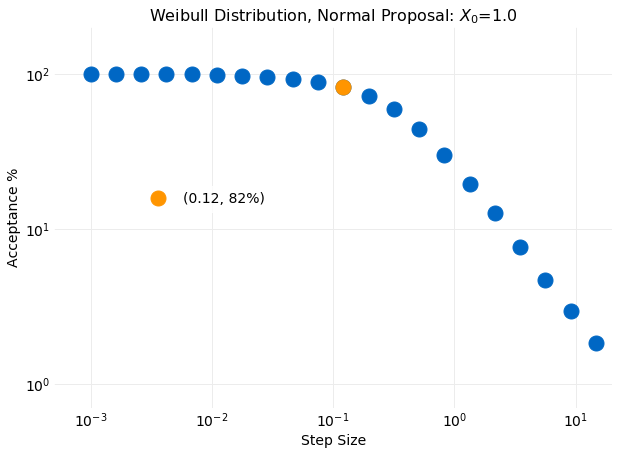
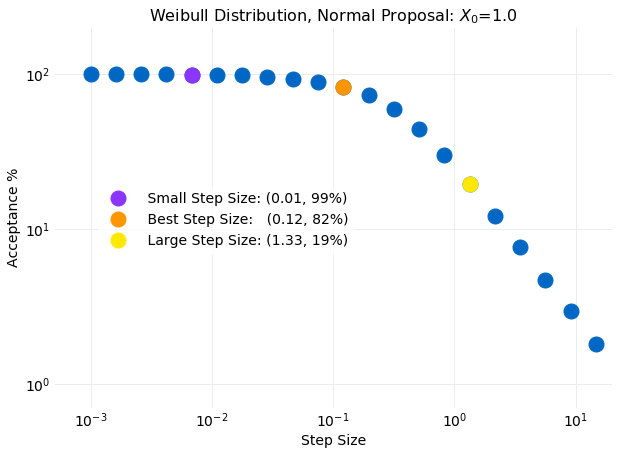
started burn in section MHS

diff --git a/_site/2018/09/06/metropolis_hastings_sampling.html b/_site/2018/09/06/metropolis_hastings_sampling.html
@@ -14,11 +14,11 @@
 <link rel="canonical" href="http://localhost:4000/2018/09/06/metropolis_hastings_sampling.html" />
 <meta property="og:url" content="http://localhost:4000/2018/09/06/metropolis_hastings_sampling.html" />
 <meta property="og:site_name" content="gly.fish" />
-<meta property="og:image" content="http://localhost:4000/assets/posts/metropolis_hastings_sampling/norma_proposal_acceptance.png" />
+<meta property="og:image" content="http://localhost:4000/assets/posts/metropolis_hastings_sampling/normal_proposal_acceptance.png" />
 <meta property="og:type" content="article" />
-<meta property="article:published_time" content="2018-09-06T08:36:59-07:00" />
+<meta property="article:published_time" content="2018-09-06T12:50:16-07:00" />
 <script type="application/ld+json">
-{"description":"Metropolis Hastings Sampling is a method for obtaining samples for known target probability distribution using samples from some other proposal distribution. It is similar to Rejection Sampling in providing a criteria for acceptance of a proposal sample as a target sample but instead of discarding the samples that do not meet the acceptance criteria the sample from the previous time step is replicated. Another difference is that Metropolis Hastings samples are modeled as a Markov Chain where the target distribution is the Markov Chain Equilibrium Distribution. As a consequence the previous sample is used as part of the acceptance criteria when generating the next sample. It will be seen this has the advantage of permitting dynamical adjustment of some proposal distribution parameters as each sample is generated, which in effect eliminates parameters as model inputs. This is is an improvement over Rejection Sampling, where it was previously shown that slight variations in proposal distribution parameters can significantly impact performance. A downside of the Markov Chain representation is that autocorrelation can develop in the samples which is not the case in Rejection Sampling.","author":{"@type":"Person","name":"Troy Stribling"},"@type":"BlogPosting","url":"http://localhost:4000/2018/09/06/metropolis_hastings_sampling.html","image":"http://localhost:4000/assets/posts/metropolis_hastings_sampling/norma_proposal_acceptance.png","headline":"Metropolis Hastings Sampling","dateModified":"2018-09-06T08:36:59-07:00","datePublished":"2018-09-06T08:36:59-07:00","mainEntityOfPage":{"@type":"WebPage","@id":"http://localhost:4000/2018/09/06/metropolis_hastings_sampling.html"},"@context":"http://schema.org"}</script>
+{"description":"Metropolis Hastings Sampling is a method for obtaining samples for known target probability distribution using samples from some other proposal distribution. It is similar to Rejection Sampling in providing a criteria for acceptance of a proposal sample as a target sample but instead of discarding the samples that do not meet the acceptance criteria the sample from the previous time step is replicated. Another difference is that Metropolis Hastings samples are modeled as a Markov Chain where the target distribution is the Markov Chain Equilibrium Distribution. As a consequence the previous sample is used as part of the acceptance criteria when generating the next sample. It will be seen this has the advantage of permitting dynamical adjustment of some proposal distribution parameters as each sample is generated, which in effect eliminates parameters as model inputs. This is is an improvement over Rejection Sampling, where it was previously shown that slight variations in proposal distribution parameters can significantly impact performance. A downside of the Markov Chain representation is that autocorrelation can develop in the samples which is not the case in Rejection Sampling.","author":{"@type":"Person","name":"Troy Stribling"},"@type":"BlogPosting","url":"http://localhost:4000/2018/09/06/metropolis_hastings_sampling.html","image":"http://localhost:4000/assets/posts/metropolis_hastings_sampling/normal_proposal_acceptance.png","headline":"Metropolis Hastings Sampling","dateModified":"2018-09-06T12:50:16-07:00","datePublished":"2018-09-06T12:50:16-07:00","mainEntityOfPage":{"@type":"WebPage","@id":"http://localhost:4000/2018/09/06/metropolis_hastings_sampling.html"},"@context":"http://schema.org"}</script>
 <!-- End Jekyll SEO tag -->
 <link rel="stylesheet" href="/assets/main.css">
   <link rel="apple-touch-icon" sizes="180x180" href="/assets/favicon/apple-touch-icon.png">
@@ -134,7 +134,7 @@
   <header class="post-header">
     <h1 class="post-title p-name" itemprop="name headline">Metropolis Hastings Sampling</h1>
     <p class="post-meta">
-      <time class="dt-published" datetime="2018-09-06T08:36:59-07:00" itemprop="datePublished">Sep 6, 2018
+      <time class="dt-published" datetime="2018-09-06T12:50:16-07:00" itemprop="datePublished">Sep 6, 2018
       </time>• <span itemprop="author" itemscope itemtype="http://schema.org/Person">
             <span class="p-author h-card" itemprop="name">Troy Stribling</span>
           </span></p>
@@ -729,9 +729,10 @@ for the decay of time series autocorrelation.</p>
 
 <p>The plot below shows the percentage of proposal samples accepted as a function of <code class="highlighter-rouge">stepsize</code> for
 simulations with <code class="highlighter-rouge">stepsize</code> ranging from <span class="katex"><span class="katex-mathml"><math><semantics><mrow><mn>1</mn><msup><mn>0</mn><mrow><mo>−</mo><mn>3</mn></mrow></msup></mrow><annotation encoding="application/x-tex">10^{-3}</annotation></semantics></math></span><span class="katex-html" aria-hidden="true"><span class="strut" style="height:0.8141079999999999em;"></span><span class="strut bottom" style="height:0.8141079999999999em;vertical-align:0em;"></span><span class="base"><span class="mord mathrm">1</span><span class="mord"><span class="mord mathrm">0</span><span class="msupsub"><span class="vlist-t"><span class="vlist-r"><span class="vlist" style="height:0.8141079999999999em;"><span style="top:-3.063em;margin-right:0.05em;"><span class="pstrut" style="height:2.7em;"></span><span class="sizing reset-size6 size3 mtight"><span class="mord mtight"><span class="mord mtight">−</span><span class="mord mathrm mtight">3</span></span></span></span></span></span></span></span></span></span></span></span> to <span class="katex"><span class="katex-mathml"><math><semantics><mrow><mn>1</mn><msup><mn>0</mn><mn>1</mn></msup></mrow><annotation encoding="application/x-tex">10^{1}</annotation></semantics></math></span><span class="katex-html" aria-hidden="true"><span class="strut" style="height:0.8141079999999999em;"></span><span class="strut bottom" style="height:0.8141079999999999em;vertical-align:0em;"></span><span class="base"><span class="mord mathrm">1</span><span class="mord"><span class="mord mathrm">0</span><span class="msupsub"><span class="vlist-t"><span class="vlist-r"><span class="vlist" style="height:0.8141079999999999em;"><span style="top:-3.063em;margin-right:0.05em;"><span class="pstrut" style="height:2.7em;"></span><span class="sizing reset-size6 size3 mtight"><span class="mord mtight"><span class="mord mathrm mtight">1</span></span></span></span></span></span></span></span></span></span></span></span>.
-The simulation believed to be the best performing accepted <span class="katex"><span class="katex-mathml"><math><semantics><mrow><mn>8</mn><mn>2</mn><mi mathvariant="normal">%</mi></mrow><annotation encoding="application/x-tex">82\%</annotation></semantics></math></span><span class="katex-html" aria-hidden="true"><span class="strut" style="height:0.75em;"></span><span class="strut bottom" style="height:0.80556em;vertical-align:-0.05556em;"></span><span class="base"><span class="mord mathrm">8</span><span class="mord mathrm">2</span><span class="mord mathrm">%</span></span></span></span> of the proposed
-samples and had a stepsize of <span class="katex"><span class="katex-mathml"><math><semantics><mrow><mn>0</mn><mi mathvariant="normal">.</mi><mn>1</mn><mn>2</mn></mrow><annotation encoding="application/x-tex">0.12</annotation></semantics></math></span><span class="katex-html" aria-hidden="true"><span class="strut" style="height:0.64444em;"></span><span class="strut bottom" style="height:0.64444em;vertical-align:0em;"></span><span class="base"><span class="mord mathrm">0</span><span class="mord mathrm">.</span><span class="mord mathrm">1</span><span class="mord mathrm">2</span></span></span></span>. This simulation is indicated by the orange point
-in the plot. For all simulations discussed in this section <code class="highlighter-rouge">x0=1.0</code>.</p>
+For all simulations <code class="highlighter-rouge">x0=1.0</code>. The simulation believed to be the best performing accepted <span class="katex"><span class="katex-mathml"><math><semantics><mrow><mn>8</mn><mn>2</mn><mi mathvariant="normal">%</mi></mrow><annotation encoding="application/x-tex">82\%</annotation></semantics></math></span><span class="katex-html" aria-hidden="true"><span class="strut" style="height:0.75em;"></span><span class="strut bottom" style="height:0.80556em;vertical-align:-0.05556em;"></span><span class="base"><span class="mord mathrm">8</span><span class="mord mathrm">2</span><span class="mord mathrm">%</span></span></span></span>
+of the proposed samples and had a stepsize of <span class="katex"><span class="katex-mathml"><math><semantics><mrow><mn>0</mn><mi mathvariant="normal">.</mi><mn>1</mn><mn>2</mn></mrow><annotation encoding="application/x-tex">0.12</annotation></semantics></math></span><span class="katex-html" aria-hidden="true"><span class="strut" style="height:0.64444em;"></span><span class="strut bottom" style="height:0.64444em;vertical-align:0em;"></span><span class="base"><span class="mord mathrm">0</span><span class="mord mathrm">.</span><span class="mord mathrm">1</span><span class="mord mathrm">2</span></span></span></span>. The two other simulations discussed
+in this section as representative of small and large values of <code class="highlighter-rouge">stepsize</code> had acceptance
+percentage of <span class="katex"><span class="katex-mathml"><math><semantics><mrow><mn>9</mn><mn>9</mn><mi mathvariant="normal">%</mi></mrow><annotation encoding="application/x-tex">99\%</annotation></semantics></math></span><span class="katex-html" aria-hidden="true"><span class="strut" style="height:0.75em;"></span><span class="strut bottom" style="height:0.80556em;vertical-align:-0.05556em;"></span><span class="base"><span class="mord mathrm">9</span><span class="mord mathrm">9</span><span class="mord mathrm">%</span></span></span></span> and <span class="katex"><span class="katex-mathml"><math><semantics><mrow><mn>1</mn><mn>9</mn><mi mathvariant="normal">%</mi></mrow><annotation encoding="application/x-tex">19\%</annotation></semantics></math></span><span class="katex-html" aria-hidden="true"><span class="strut" style="height:0.75em;"></span><span class="strut bottom" style="height:0.80556em;vertical-align:-0.05556em;"></span><span class="base"><span class="mord mathrm">1</span><span class="mord mathrm">9</span><span class="mord mathrm">%</span></span></span></span> for <code class="highlighter-rouge">stepsize</code> values of</p>
 
 <p><img class="post-image" src="/assets/posts/metropolis_hastings_sampling/normal_proposal_acceptance.png" /></p>
 
@@ -848,7 +849,11 @@ some knowledge of the target mean is available it should be used to minimize thi
 The time required to reach the equilibrium is referred to as <em>burn in</em>. Typically the
 burn in period of the simulation is considered and artifact and discarded with the aim of
 improving the final result. The expectation then is that the simulation is generating <em>natural</em>
-fluctuations about equilibrium. For the target</p>
+fluctuations about equilibrium. For the target <span class="katex"><span class="katex-mathml"><math><semantics><mrow><mtext>Weibull</mtext></mrow><annotation encoding="application/x-tex">\textbf{Weibull}</annotation></semantics></math></span><span class="katex-html" aria-hidden="true"><span class="strut" style="height:0.69444em;"></span><span class="strut bottom" style="height:0.69444em;vertical-align:0em;"></span><span class="base"><span class="mord text"><span class="mord mathbf">Weibull</span></span></span></span></span>
+distribution the mean value computed from equation <span class="katex"><span class="katex-mathml"><math><semantics><mrow><mo>(</mo><mn>1</mn><mn>3</mn><mo>)</mo></mrow><annotation encoding="application/x-tex">(13)</annotation></semantics></math></span><span class="katex-html" aria-hidden="true"><span class="strut" style="height:0.75em;"></span><span class="strut bottom" style="height:1em;vertical-align:-0.25em;"></span><span class="base"><span class="mopen">(</span><span class="mord mathrm">1</span><span class="mord mathrm">3</span><span class="mclose">)</span></span></span></span> using
+<span class="katex"><span class="katex-mathml"><math><semantics><mrow><mi>λ</mi><mo>=</mo><mn>1</mn></mrow><annotation encoding="application/x-tex">\lambda = 1</annotation></semantics></math></span><span class="katex-html" aria-hidden="true"><span class="strut" style="height:0.69444em;"></span><span class="strut bottom" style="height:0.69444em;vertical-align:0em;"></span><span class="base"><span class="mord mathit">λ</span><span class="mrel">=</span><span class="mord mathrm">1</span></span></span></span> and <span class="katex"><span class="katex-mathml"><math><semantics><mrow><mi>k</mi><mo>=</mo><mn>5</mn></mrow><annotation encoding="application/x-tex">k=5</annotation></semantics></math></span><span class="katex-html" aria-hidden="true"><span class="strut" style="height:0.69444em;"></span><span class="strut bottom" style="height:0.69444em;vertical-align:0em;"></span><span class="base"><span class="mord mathit" style="margin-right:0.03148em;">k</span><span class="mrel">=</span><span class="mord mathrm">5</span></span></span></span> is <span class="katex"><span class="katex-mathml"><math><semantics><mrow><mn>0</mn><mi mathvariant="normal">.</mi><mn>9</mn><mn>2</mn></mrow><annotation encoding="application/x-tex">0.92</annotation></semantics></math></span><span class="katex-html" aria-hidden="true"><span class="strut" style="height:0.64444em;"></span><span class="strut bottom" style="height:0.64444em;vertical-align:0em;"></span><span class="base"><span class="mord mathrm">0</span><span class="mord mathrm">.</span><span class="mord mathrm">9</span><span class="mord mathrm">2</span></span></span></span>.
+The following two plots compare cumulative calculations of the first and second moments performed with samples
+from simulations with the target distribution values.</p>
 
 <p><img class="post-image" src="/assets/posts/metropolis_hastings_sampling/normal_proposal_burnin-mean-convergence.png" /></p>
 

diff --git a/_site/index.html b/_site/index.html
@@ -132,11 +132,11 @@
         Metropolis Hastings Sampling
       </h1>
       <p class="post-meta">
-        <time class="dt-published" datetime="" itemprop="datePublished">Sep 5, 2018
+        <time class="dt-published" datetime="" itemprop="datePublished">Sep 6, 2018
         </time>• <span itemprop="author" itemscope itemtype="http://schema.org/Person">
               <span class="p-author h-card" itemprop="name">Troy Stribling</span>
             </span></p>
-      <img class="post-image" src="/assets/posts/metropolis_hastings_sampling/norma_proposal_acceptance.png"><p><a href="https://en.wikipedia.org/wiki/Metropolis–Hastings_algorithm">Metropolis Hastings Sampling</a> is a method for obtaining samples for known target
+      <img class="post-image" src="/assets/posts/metropolis_hastings_sampling/normal_proposal_acceptance.png"><p><a href="https://en.wikipedia.org/wiki/Metropolis–Hastings_algorithm">Metropolis Hastings Sampling</a> is a method for obtaining samples for known target
 probability distribution using samples from some other proposal distribution. It is similar to
 <a href="/2018/07/29/rejection_sampling.html">Rejection Sampling</a> in providing a
 criteria for acceptance of a proposal sample as a target sample but instead of discarding the
@@ -152,7 +152,7 @@ slight variations in proposal distribution parameters can significantly impact p
 A downside of the Markov Chain representation is that
 <a href="/2018/08/25/discrete_cross_correlation_theorem.html">autocorrelation</a> can develop in the samples
 which is not the case in Rejection Sampl...
-      <a href="/2018/09/05/metropolis_hastings_sampling.html">read more</a>
+      <a href="/2018/09/06/metropolis_hastings_sampling.html">read more</a>
     </li>
     <li><h1 class="post-title p-name" >
         Discrete Cross Correlation Theorem

diff --git a/_site/archive/index.html b/_site/archive/index.html
@@ -125,9 +125,9 @@
       <div class="wrapper">
         <div class="home">
 <h2 class="archive-list-heading">Posts</h2>
-    <ul class="archive-list"><li><span class="post-meta">Sep 5, 2018</span>
+    <ul class="archive-list"><li><span class="post-meta">Sep 6, 2018</span>
         <h3>
-          <a class="post-link" href="/2018/09/05/metropolis_hastings_sampling.html">
+          <a class="post-link" href="/2018/09/06/metropolis_hastings_sampling.html">
             Metropolis Hastings Sampling
           </a>
         </h3></li><li><span class="post-meta">Aug 25, 2018</span>

diff --git a/_drafts/metropolis_hastings_sampling.md b/_drafts/metropolis_hastings_sampling.md
@@ -1,7 +1,7 @@
 ---
 title: Metropolis Hastings Sampling
 key: 20180721
-image: /assets/posts/metropolis_hastings_sampling/norma_proposal_acceptance.png
+image: /assets/posts/metropolis_hastings_sampling/normal_proposal_acceptance.png
 author: Troy Stribling
 permlink: /metropolis_hastings_sampling.html
 comments: false
@@ -568,9 +568,11 @@ for the decay of time series autocorrelation.
 
 The plot below shows the percentage of proposal samples accepted as a function of `stepsize` for
 simulations with `stepsize` ranging from {% katex %}10^{-3}{% endkatex %} to {% katex %}10^{1}{% endkatex %}.
-The simulation believed to be the best performing accepted {% katex %}82\%{% endkatex %} of the proposed
-samples and had a stepsize of {% katex %}0.12{% endkatex %}. This simulation is indicated by the orange point
-in the plot. For all simulations discussed in this section `x0=1.0`.
+For all simulations `x0=1.0`. The simulation believed to be the best performing accepted {% katex %}82\%{% endkatex %}
+of the proposed samples and had a stepsize of {% katex %}0.12{% endkatex %}. The two other simulations discussed
+in this section as representative of small and large values of `stepsize` had acceptance
+percentages of {% katex %}99\%{% endkatex %} and {% katex %}19\%{% endkatex %} for `stepsize` values of
+{% katex %}0.01{% endkatex %} and {% katex %}1.33{% endkatex %} respectively. Each of this simulations is indicated in the plot.
 
 <img class="post-image" src="/assets/posts/metropolis_hastings_sampling/normal_proposal_acceptance.png">
 
@@ -690,10 +692,14 @@ improving the final result. The expectation then is that the simulation is gener
 fluctuations about equilibrium. For the target {% katex %}\textbf{Weibull}{% endkatex %}
 distribution the mean value computed from equation {% katex %}(13){% endkatex %} using
 {% katex %}\lambda = 1{% endkatex %} and {% katex %}k=5{% endkatex %} is {% katex %}0.92{% endkatex %}.
+The following two plots compare cumulative calculations of the first and second moments performed with samples
+from simulations with the target distribution values.
 
 <img class="post-image" src="/assets/posts/metropolis_hastings_sampling/normal_proposal_burnin-mean-convergence.png">
 
 <img class="post-image" src="/assets/posts/metropolis_hastings_sampling/normal_proposal_burnin-sigma-convergence.png">
+
+
 
 <img class="post-image" src="/assets/posts/metropolis_hastings_sampling/normal_proposal_burnin-autocorrelation.png">
 
